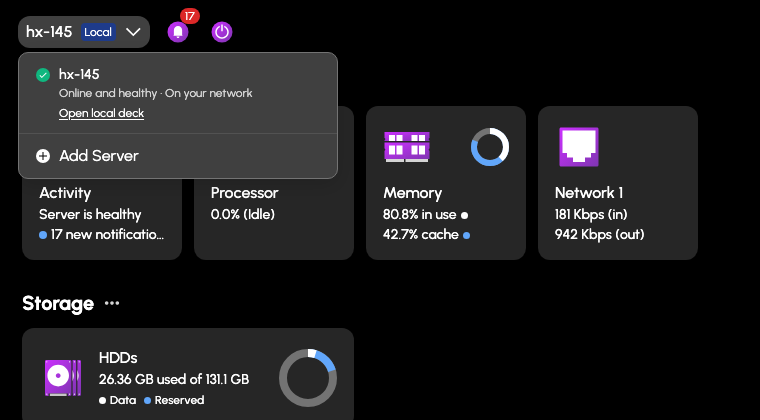
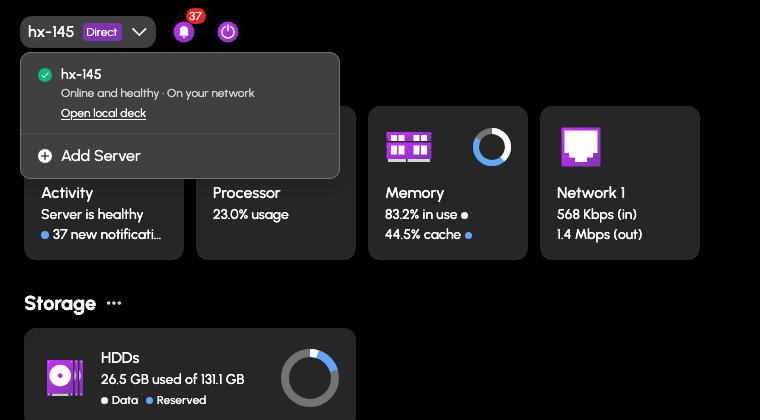
docs: The hosted deck's badge is Direct, and the hosted strip is gone
hexos-platform #3160 renames the hosted deck's badge to a purple Direct and removes the strip across the top. The local access page and the file browser page say Direct, the way to the server's address through the strip's question mark is dropped with its screenshot, and the dropdown screenshot is retaken.

diff --git a/troubleshooting/local-access.md b/troubleshooting/local-access.md
@@ -12,19 +12,15 @@ dateCreated: 2026-11-04T00:00:00.000Z
 
 Your server has an address of its own on your home network. When the Command Deck talks to your server at that address, your files and pages stay on your own network instead of travelling through the internet, which is faster.
 
-When you open the Command Deck at [deck.hexos.com](https://deck.hexos.com), it checks whether your browser can reach that address. When it can, the deck stays where it is and loads your server's pages straight from the server. A **Local** badge appears beside your server's name at the top, and uploads and downloads in the file browser work.
+When you open the Command Deck at [deck.hexos.com](https://deck.hexos.com), it checks whether your browser can reach that address. When it can, the deck stays where it is and loads your server's pages straight from the server. A purple **Direct** badge appears beside your server's name at the top, and uploads and downloads in the file browser work.
 
-![The Local badge beside the server's name](/local-access/server-dropdown-on-your-network.png)
+![The Direct badge beside the server's name](/local-access/server-dropdown-on-your-network.png)
 
-When the check does not succeed, everything keeps working through HexOS Cloud, a little slower. A check that does not succeed does not mean the address is unreachable: your browser may simply not allow the deck to look for your server. You can still open the address yourself.
+When the check does not succeed, no badge shows and everything keeps working through HexOS Cloud, a little slower. A check that does not succeed does not mean the address is unreachable: your browser may simply not allow the deck to look for your server. You can still open the address yourself.
 
 ## Find your server's local address
 
 You can open your server's own address at any time, whether or not the deck found it for you. The address works whenever you are on the same network as your server.
-
-- **From the hosted strip.** When the strip **You are on the hosted Command Deck** shows at the top, click the question mark beside it. It opens your server directly, on the page you are looking at.
-
-![The question mark at the top of the hosted Command Deck, with the link that opens the server](/local-access/hosted-banner-local-access.png)
 
 - **From the server dropdown.** Open the server dropdown at the top of the Command Deck and choose **Open local deck** under your server's name. The line above it says how the deck reaches your server right now: **On your network** or **Through HexOS Cloud**.
 
@@ -38,9 +34,9 @@ If the address does not open, see [If the address cannot be reached](#if-the-add
 
 ## Let the Command Deck use local access for you
 
-The deck asks your server, at its local address, whether it is there. When it answers, the deck loads your server's pages from it directly and shows the **Local** badge.
+The deck asks your server, at its local address, whether it is there. When it answers, the deck loads your server's pages from it directly and shows the **Direct** badge.
 
-Newer browsers ask before a website may look for devices on your home network, and remember the answer. If the question was dismissed or answered **Block**, the deck's check cannot succeed in that browser, so everything goes through HexOS Cloud and a strip at the top says **You are on the hosted Command Deck**. Blocking the check does not block the address itself: the ways to open it above still work.
+Newer browsers ask before a website may look for devices on your home network, and remember the answer. If the question was dismissed or answered **Block**, the deck's check cannot succeed in that browser, so everything goes through HexOS Cloud and the **Direct** badge does not show. Blocking the check does not block the address itself: the ways to open it above still work.
 
 To let the deck reach your server directly, allow local network access for `deck.hexos.com`, then reload the page.
 
@@ -99,7 +95,7 @@ macOS keeps its own list of apps allowed to reach devices on your network, and y
 
 ## If the address cannot be reached
 
-When your server's own address does not open, or the **Local** badge never appears while you are at home, the path from this device to the server is the problem rather than the browser:
+When your server's own address does not open, or the **Direct** badge never appears while you are at home, the path from this device to the server is the problem rather than the browser:
 
 - **A different network.** Local access only works from the same network as the server. On a guest network, a phone's mobile data or away from home, the deck works through HexOS Cloud.
 - **A VPN.** A VPN on this device can send your server's local address out through the tunnel. Pause the VPN, or allow local network access in its settings, and try again.

diff --git a/features/file-browser.md b/features/file-browser.md
@@ -250,7 +250,7 @@ For everyday file work, and for moving large amounts of data, connecting your co
 
 Uploading and downloading move file data between your computer and your server directly, so they are only available when you are on the same network as your server.
 
-At home, the Command Deck at deck.hexos.com reaches your server on its own, shown by the **Local** badge beside the server's name, and the buttons work there. If you are away from home, or the badge is missing, the **Upload** and **Download** buttons show a warning and explain how to open your server's local deck. See [Local access to your server](/troubleshooting/local-access). Everything else (browsing, renaming, moving, deleting, downloading from the internet, and burning a USB stick) happens on the server itself and works from anywhere.
+At home, the Command Deck at deck.hexos.com reaches your server on its own, shown by the purple **Direct** badge beside the server's name, and the buttons work there. If you are away from home, or the badge is missing, the **Upload** and **Download** buttons show a warning and explain how to open your server's local deck. See [Local access to your server](/troubleshooting/local-access). Everything else (browsing, renaming, moving, deleting, downloading from the internet, and burning a USB stick) happens on the server itself and works from anywhere.
 
 > **Info:** If file actions are missing entirely, your server may need a HexOS update before they become available. Browsing still works in the meantime.
 {.is-info}
